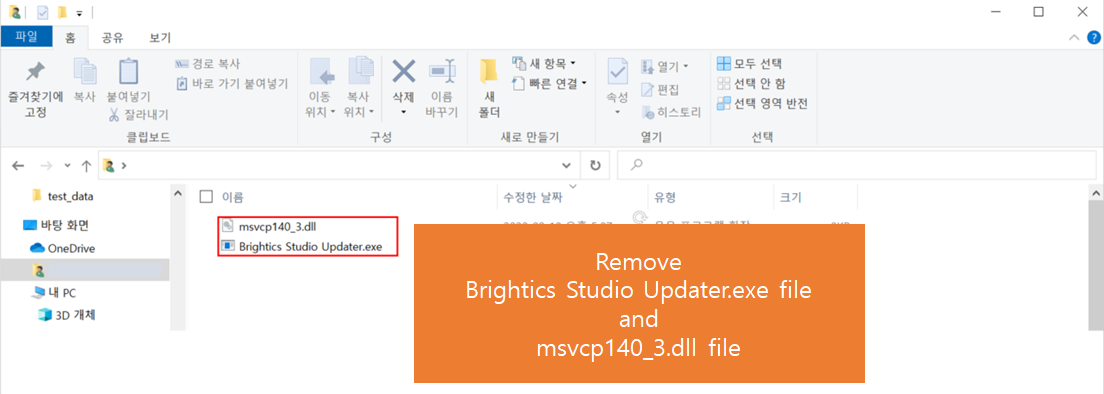
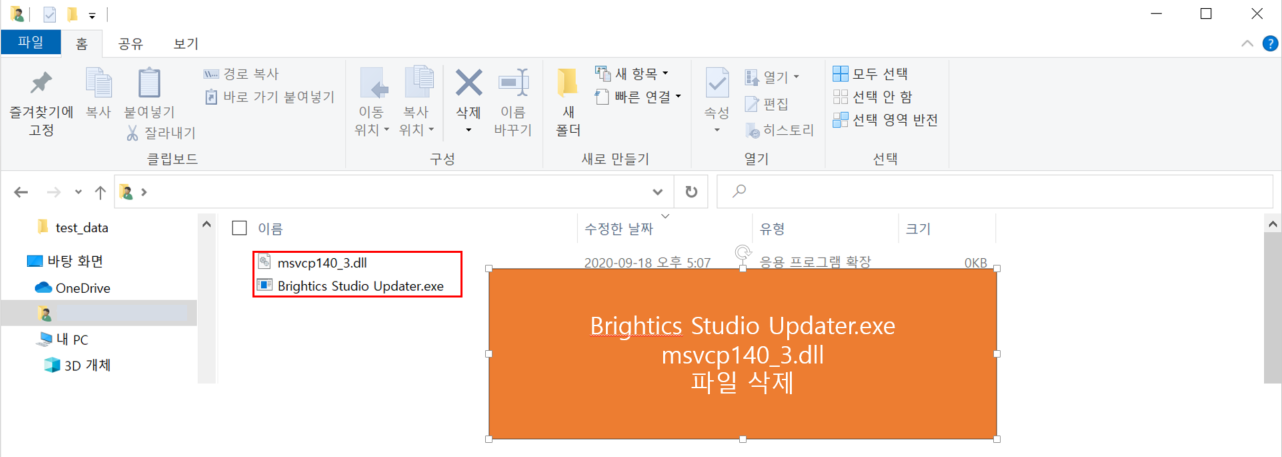
Update readme in English

Changed region(s): [[0.3696, 0.5482, 0.8007, 0.9746]]

diff --git a/README.md b/README.md
@@ -8,11 +8,11 @@ BrighticsStudio-v1.1-2020.07-windows.exe에 악성코드 감염이 발견되어 
 
 1. Remove brightics-studio folder (Default installation path is `C:\brightics-studio`) <br>
    설치한 `brightics-studio` 폴더 전체를 삭제해주세요 (기본 설치 경로는 `C:\brightics-studio` 입니다.)
-![1](img/1.png)
+![1](img/1_e.png)
 
 2. Open File Explorer and type `%userprofile%` in the address bar <br>
    파일 탐색기를 열고 주소 표시창에 `%userprofile%` 을 입력해주세요
-![2](img/2.png)
+![2](img/2_e.png)
 
 3. If you find `Brightics Studio Updater.exe` file, delete this file. <br>
    If you don't, go to step 4. <br>
@@ -21,25 +21,25 @@ BrighticsStudio-v1.1-2020.07-windows.exe에 악성코드 감염이 발견되어 
 4. If you find `msvcp140_3.dll` file, delete this file <br>
    If you don't, go to step 5. <br>
    `msvcp140_3.dll` 파일이 존재하면 삭제해주시고 없다면 다음 단계로 넘어가 주세요.
-![4](img/4.png)
+![4](img/4_e.png)
 
 5. Open File Explorer and type `%temp%` in the address bar <br>
    파일 탐색기를 열고 주소 표시창에 `%temp%` 를 입력해주세요
-![5](img/5.png)
+![5](img/5_e.png)
 
 6. If you find `STL.vbs` file, delete this file. <br>
    `STL.vbs` 파일이 존재하면 삭제해주시고 없다면 다음 단계로 넘어가 주세요. <br>
    If you don't, go to step 7 
-![6](img/6.png)
+![6](img/6_e.png)
 
 7. Open Window Run window (Press `Window Key + R`)  <br>
    Then type `cmd`  <br>
    윈도키 + R 단축키를 이용하거나 윈도 실행창에서 `cmd` 를 입력해주세요.  <br>
-![7](img/7.png)
+![7](img/7_e.png)
 
 8. When Command Prompt is open, type SchTasks /DELETE /TN BrighticsStudioUpdater  <br>
    윈도우 명령어 창이 열리면 `SchTasks /DELETE /TN BrighticsStudioUpdater` 를 입력해주세요.
-![8](img/8.png)
+![8](img/8_e.png)
 
 ### [How to reinstall Brightics Studio]
 Please, download and reinstall Brightics Studio using the download link beflow  <br>
